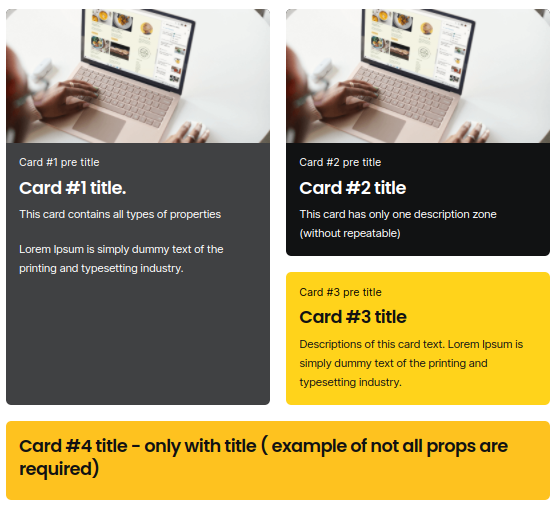
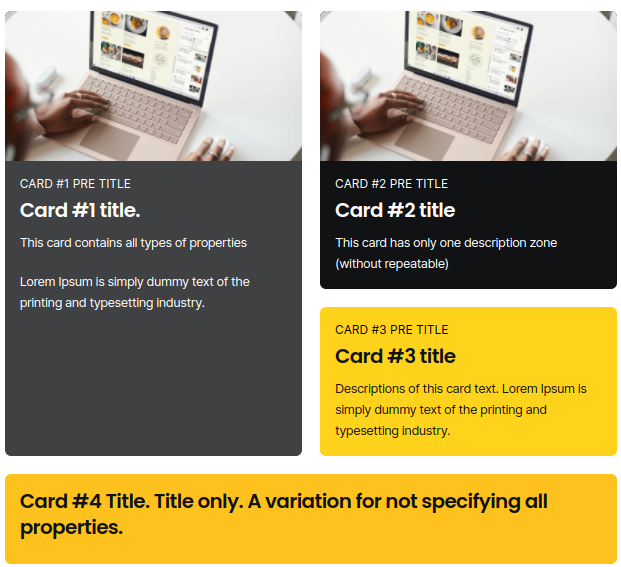
MAR-2870-component-card-refactoring. Added responsive styles. Added uppercase for pre title. Fixed text in readme.md. updated readme screenshots.

diff --git a/client/components/Cases/shared/ColoredCards/ColoredCards.vue b/client/components/Cases/shared/ColoredCards/ColoredCards.vue
@@ -1,3 +1,4 @@
+<!--Please check readme.md-->
 <template>
   <div
     v-if="availableGridTypes.includes(gridType)"
@@ -99,6 +100,18 @@ export default {
       &--2, &--3 {
         grid-column: span 1;
         grid-row: span 1;
+      }
+    }
+  }
+
+  &--one-left-two-right,
+  &--two-two,
+  &--two-one {
+    @media screen and (max-width: 820px) {
+      grid-template-columns: repeat(2, 1fr);
+
+      .colored-card {
+        grid-column: span 2;
       }
     }
   }

diff --git a/client/components/Cases/shared/ColoredCards/ColoredCard.vue b/client/components/Cases/shared/ColoredCards/ColoredCard.vue
@@ -142,9 +142,10 @@ export default {
 
   &__footer {
     flex-grow: 1;
-    padding: 20px;
+    padding: 25px;
   }
   &__pre-title{
+    text-transform: uppercase;
     display: block;
   }
 }

diff --git a/client/components/Cases/shared/ColoredCards/readme.md b/client/components/Cases/shared/ColoredCards/readme.md
@@ -8,7 +8,7 @@ Please use this import:
 import ColoredCard from '@/components/Cases/shared/ColoredCards/ColoredCard'
 ```
 
-## Cards object propperties 
+## Cards object properties 
 
 Then you should create a data file (or use existing) and create **cardsDataArray** (you can use your variable name)
 
